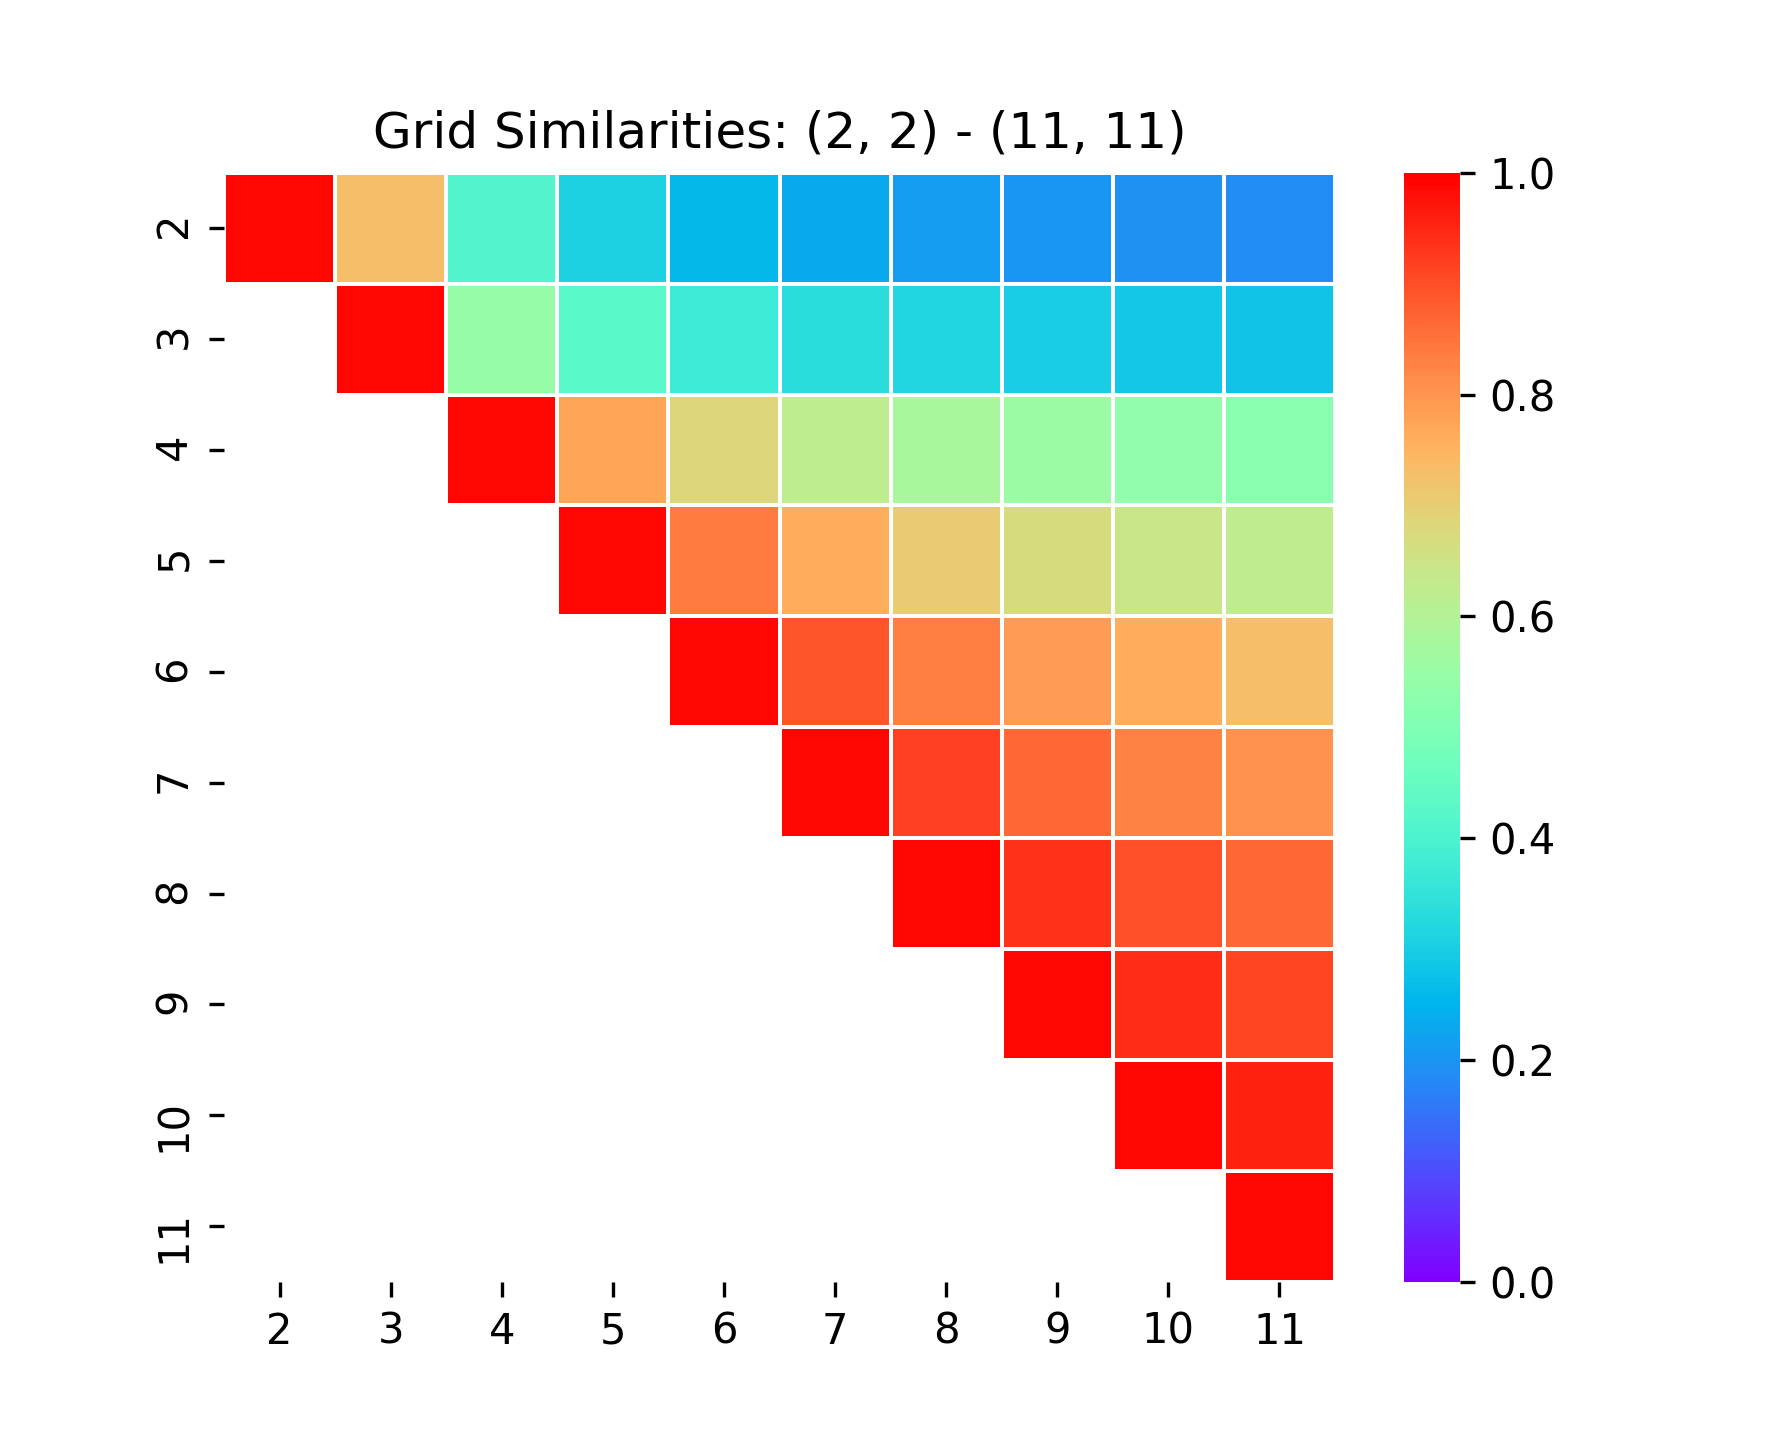
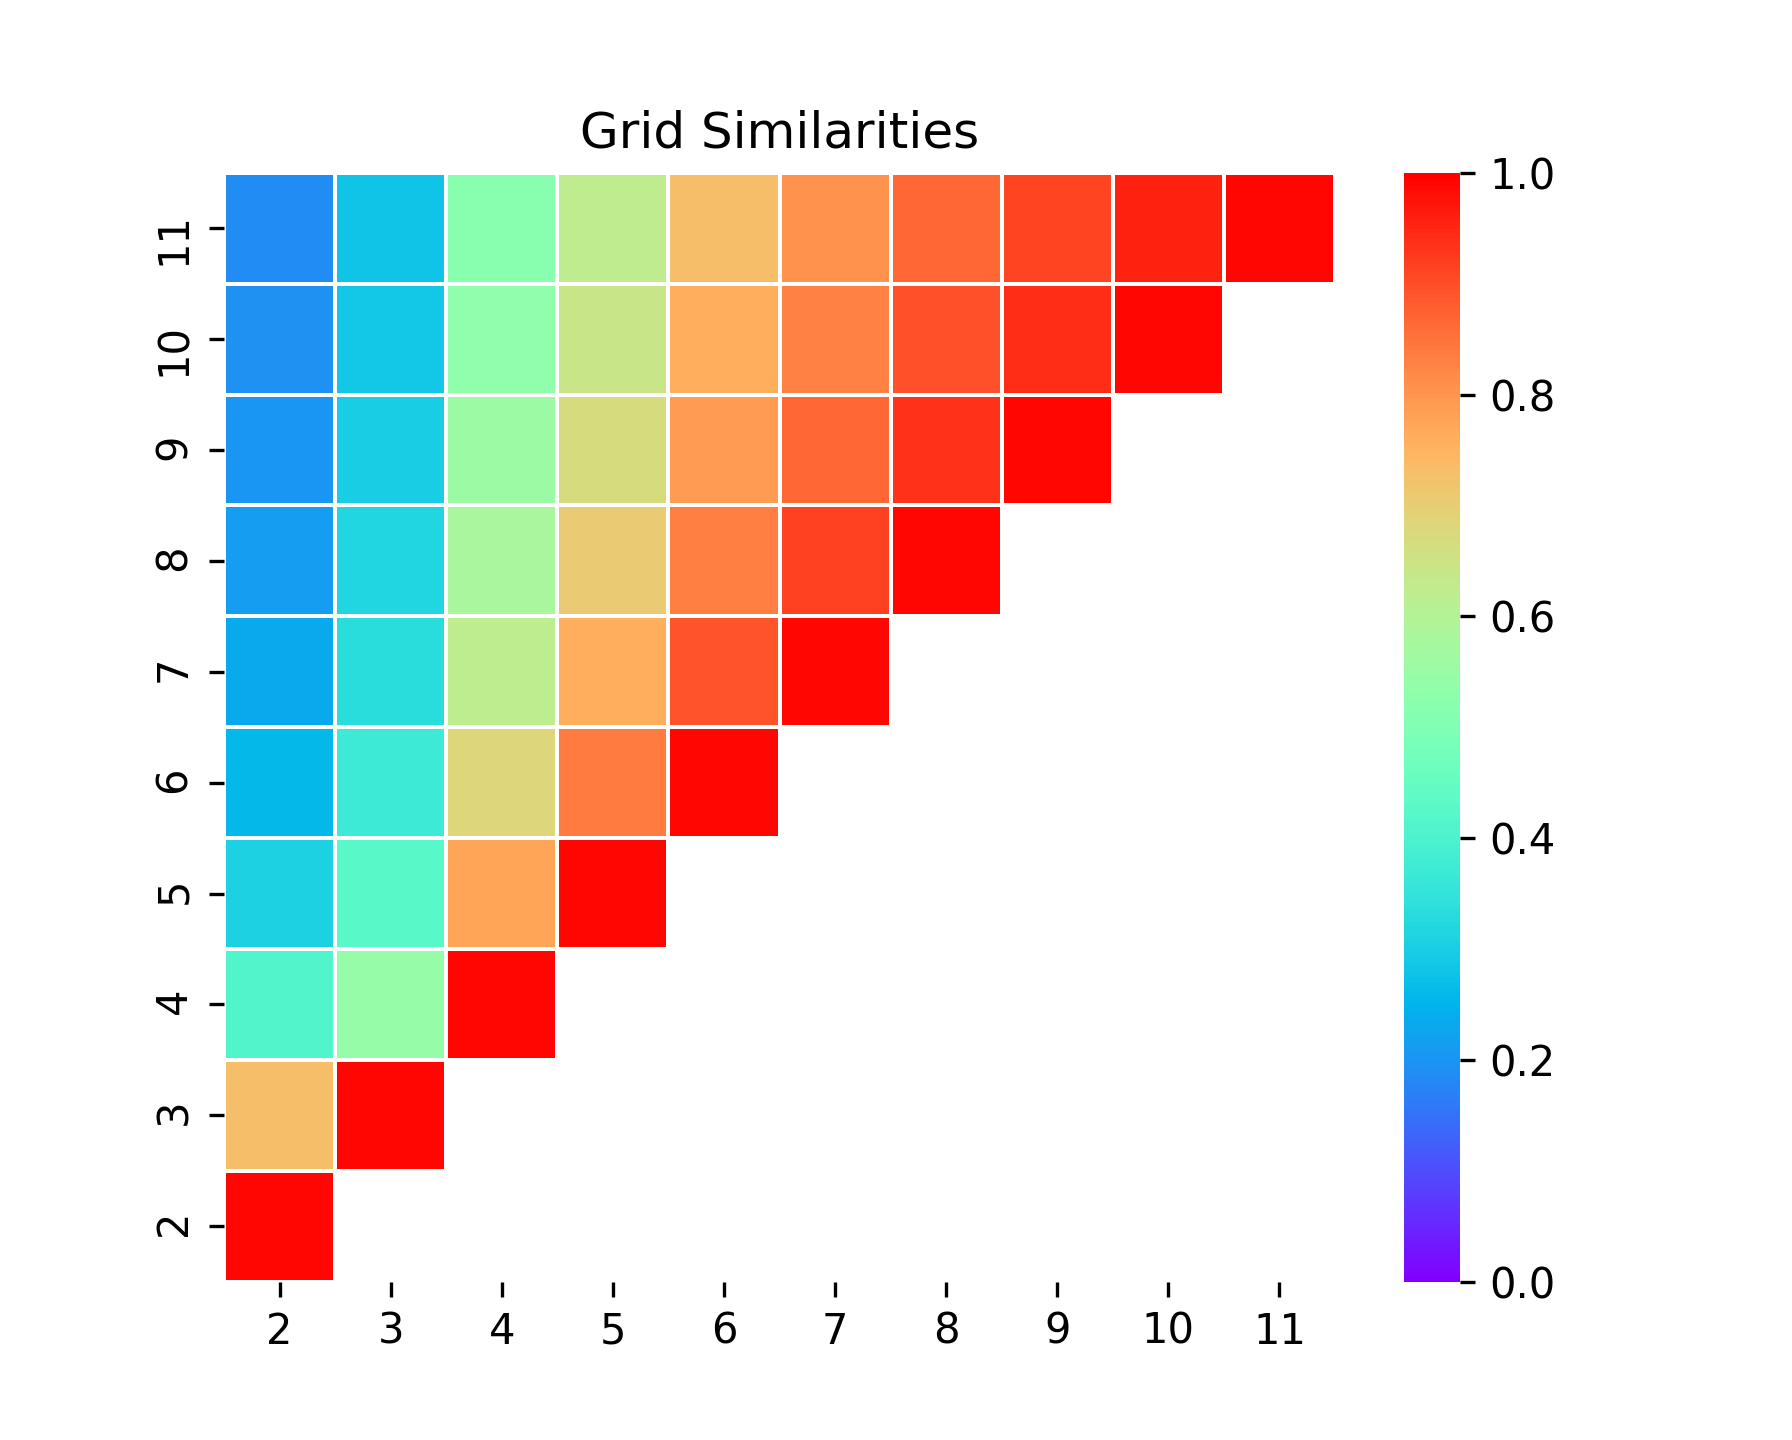
changed graph orientation

diff --git a/tasksim/experiments/main_pipeline.py b/tasksim/experiments/main_pipeline.py
@@ -33,29 +33,29 @@ def compare_graphs(graphs, verify_metric=True, print_progress=True, title=None, 
         return ret, ax_heatmap, metric
     return ret, ax_heatmap
 
+def process_print_graphs(graphs, title, ticks):
+    print(f'\n{title}')
+    comp, heatmap, metric = compare_graphs(graphs, verify_metric=True, title=title, ticks=ticks)
+    print(f'Metric valid (order, triangle inequality, symmetry): {metric}')
+    print(np.triu(comp))
+    plt.figure(plt.get_fignums()[-1]).savefig(f'{FIG_OUT}/{title.lower().replace(" ", "_")}.png')
+    return comp, heatmap, metric
+
 def shape_comparisons(line_sizes=None, grid_sizes=None):
     if line_sizes is None:
         line_sizes = range(2, 12)
     if grid_sizes is None:
         grid_sizes = range(2, 12)
-    def process_and_print(graphs, shapes, header=''):
-        title = f'{header} Similarities: {shapes[0]} - {shapes[-1]}'
-        print(f'\n{title}')
-        comp, heatmap, metric = compare_graphs(graphs, verify_metric=True, title=title, ticks=[str(s[1]) for s in shapes])
-        print(f'Metric valid (order, triangle inequality, symmetry): {metric}')
-        print(np.triu(comp))
-        plt.figure(plt.get_fignums()[-1]).savefig(f'{FIG_OUT}/{header.lower().replace(" ", "_")}_similarities.png')
-        return comp, heatmap, metric
     line_shapes = [(1, i) for i in line_sizes]
     grid_shapes = [(i, i) for i in grid_sizes]
     lines = generate_graphs(line_shapes)
     grids = generate_graphs(grid_shapes)
     lines_noops = generate_graphs(line_shapes, noops=True)
     grids_noops = generate_graphs(grid_shapes, noops=True)
-    process_and_print(lines, line_shapes, 'Line')
-    process_and_print(grids, grid_shapes, 'Grid')
-    process_and_print(lines_noops, line_shapes, 'Line with No-ops')
-    process_and_print(grids_noops, grid_shapes, 'Grid with No-ops')
+    process_print_graphs(lines, 'Line Similarities', [str(s[1]) for s in line_shapes])
+    process_print_graphs(grids, 'Grid Similarities', [str(s[1]) for s in grid_shapes])
+    process_print_graphs(lines_noops, 'Line with No-ops Similarities', [str(s[1]) for s in line_shapes])
+    process_print_graphs(grids_noops, 'Grid with No-ops Similarities', [str(s[1]) for s in grid_shapes])
 
 if __name__ == '__main__':
     plt.ion()

diff --git a/tasksim/experiments/pipeline_utilities.py b/tasksim/experiments/pipeline_utilities.py
@@ -72,18 +72,31 @@ def check_metric_properties(comparisons, graphs, decimals=10, output=False):
     #     print('Shuffle check passed!')
 
 # TODO: labels, ticks, & titles
-def heatmap(matrix, title=None, ticks=None, new_figure=True):
-    upper_mat = np.triu(matrix)
+def heatmap(matrix, title=None, ticks=None, new_figure=True, flip_orientation=True, upper=True):
+    upper_mask = np.triu(matrix)
     lower_mask = np.tril(matrix)
-    np.fill_diagonal(lower_mask, 0)
+    np.fill_diagonal(upper_mask, 0)
+    if flip_orientation:
+        upper_mask = np.flipud(upper_mask)
+        lower_mask = np.flipud(lower_mask)
     if new_figure:
         plt.figure()
-    ax = sns.heatmap(1 - upper_mat, mask=lower_mask, linewidth=0.5, cmap="rainbow", vmin=0, vmax=1)
+    keep = lower_mask
+    mask = upper_mask
+    if upper:
+        ax = sns.heatmap(1 - keep, mask=mask, linewidth=0.5, cmap="rainbow", vmin=0, vmax=1)
+    else:
+        keep = np.flipud(matrix) if flip_orientation else matrix
+        ax = sns.heatmap(1 - keep, linewidth=0.5, cmap="rainbow", vmin=0, vmax=1)
     if title is not None:
         ax.set_title(title)
     if ticks is not None:
         ax.set_xticklabels(ticks)
-        ax.set_yticklabels(ticks)
+        #ax.xaxis.tick_top()
+        ticks_y = np.array(ticks).copy()
+        if flip_orientation:
+            ticks_y = np.flip(ticks_y)
+        ax.set_yticklabels(ticks_y)
     return ax
 
 # From Stackoverflow: https://stackoverflow.com/questions/3173320/text-progress-bar-in-the-console
